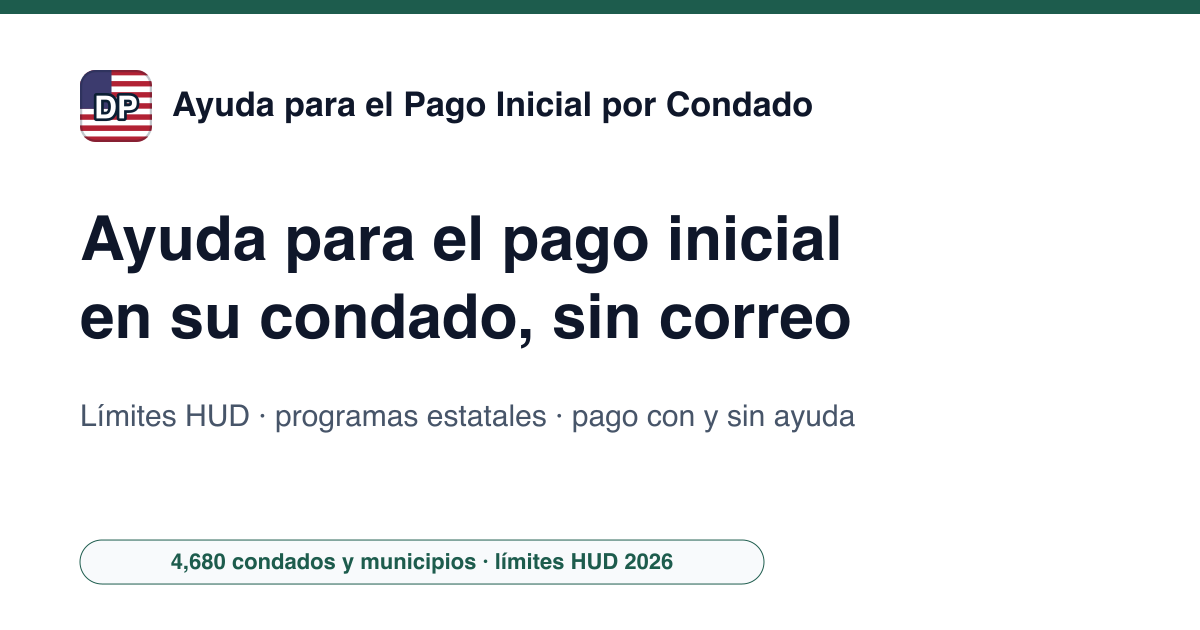
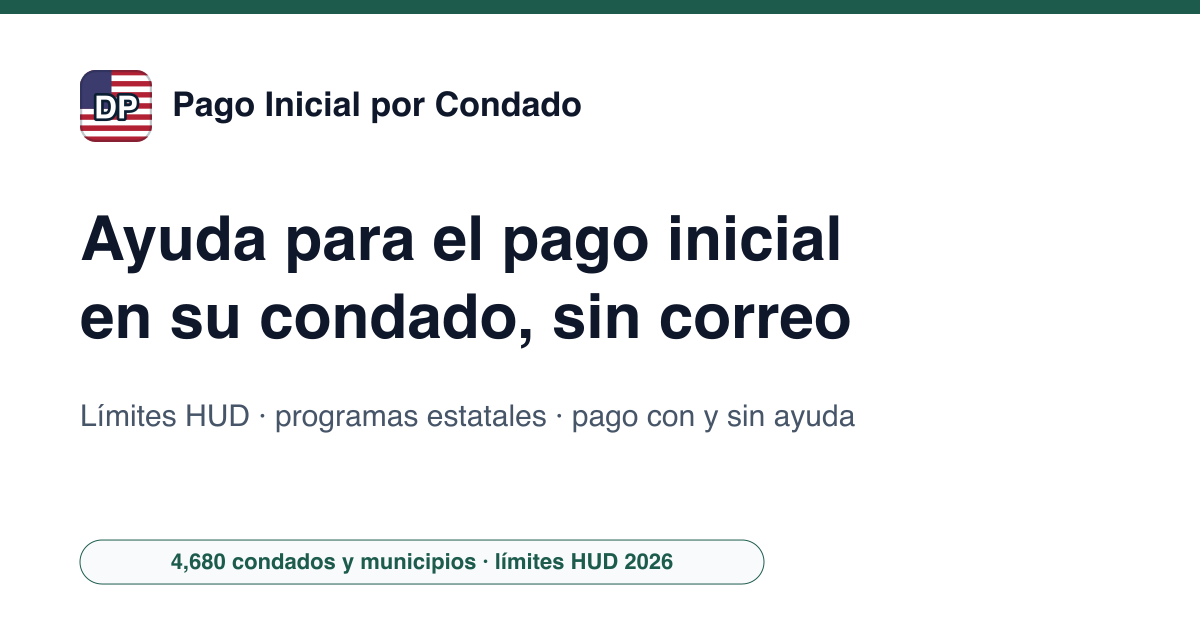
Renommage : us-down-payment-assistance devient downpaymentbycounty.com (marque : Down Payment Aid by County=Down Payment by County, Ayuda para el Pago Inicial por Condado=Pago Inicial por Condado)
Domaine acheté le 2026-10-23 ; adresse, contact, robots, llms et images de partage mis à jour.

Changed region(s): [[0.1233, 0.1206, 0.6783, 0.2111]]

diff --git a/src/data/site-config.ts b/src/data/site-config.ts
@@ -1,6 +1,6 @@
 /** Configuration centrale du site (générée par new-site.py). */
-export const SITE_URL = "https://us-down-payment-assistance.example";
-export const SITE_NAMES: Record<string, string> = {"en": "Down Payment Aid by County", "es": "Ayuda para el Pago Inicial por Condado"};
+export const SITE_URL = "https://downpaymentbycounty.com";
+export const SITE_NAMES: Record<string, string> = {"en": "Down Payment by County", "es": "Pago Inicial por Condado"};
 export const LANG_TAGS: Record<string, string> = {"en": "en-US", "es": "es-US"};
 export const OG_LOCALES: Record<string, string> = {"en": "en_US", "es": "es_US"};
 export const LOCALE_TAG = 'en-US';
@@ -16,7 +16,7 @@ export const AUTHOR_DESC: Record<string, string> = {"en": "Radif Partners loads 
  *  themes reellement traites par le site, pas une liste de mots-cles : un sujet
  *  declare ici sans page qui le couvre est une declaration fausse. */
 export const KNOWS_ABOUT: Record<string, string[]> = {"en": ["HUD area median family income and income limits by county", "State housing finance agency down payment assistance programs", "Forgivable, deferred and amortizing second mortgages", "FHFA conforming loan limits", "First-time homebuyer definition and requirements", "Mortgage credit certificates"], "es": ["Ingreso familiar medio del área y límites de ingresos de HUD por condado", "Programas de ayuda para el pago inicial de las agencias estatales de vivienda", "Segundas hipotecas perdonables, diferidas y amortizables", "Límites de préstamo conforme de FHFA", "Definición y requisitos de comprador de vivienda por primera vez", "Certificados de crédito hipotecario"]};
-export const CONTACT_EMAIL = "contact@us-down-payment-assistance.example";
+export const CONTACT_EMAIL = "contact@downpaymentbycounty.com";
 export const THEME_COLOR = '#1D5C4D';
 export const LOGO_SYMBOL = 'DP';
 export const BING_VERIFY_CODE = '';
